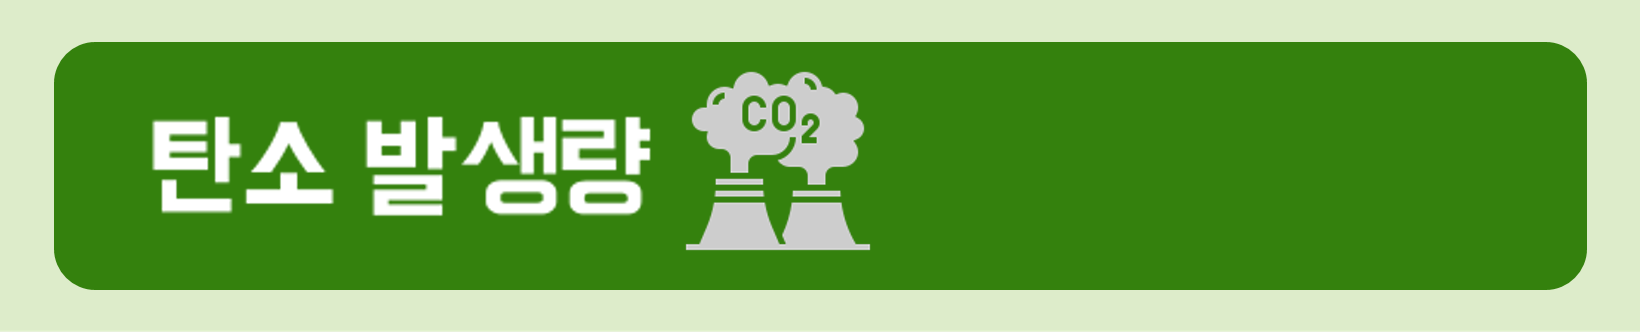
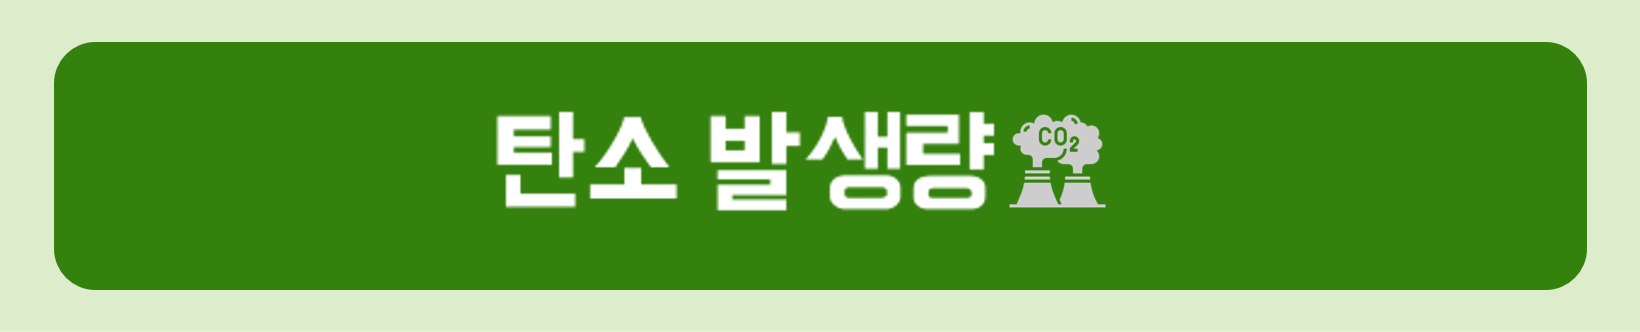
change table image

Changed region(s): [[0.0933, 0.2108, 0.6841, 0.753]]

diff --git a/project/templates/elements.html b/project/templates/elements.html
@@ -115,17 +115,17 @@
                             <table>
                                 <thead>
                                 <tr>
-                                    <th bgcolor="#6fd66c">머신러닝 분석</th>
-                                    <th bgcolor="#6fd66c">옵션</th>
-                                    <th bgcolor="#6fd66c">간단한 설명</th>
+                                    <th width="27%" style="background-image:url(./static/assets/img/elements/메뉴_머신러닝.png); background-size:100%; background-repeat:no-repeat; background-position:bottom center; border:hidden;">&emsp;</th>
+                                    <th width="42%" style="background-image:url(./static/assets/img/elements/메뉴_옵션.png); background-size:100%; background-repeat:no-repeat; background-position:bottom center; border:hidden;">&emsp;</th>
+                                    <th width="31%" style="background-image:url(./static/assets/img/elements/메뉴_설명.png); background-size:100%; background-repeat:no-repeat; background-position:bottom center; border:hidden;">&emsp;</th>
                                 </tr>
                                 </thead>
                                 <tbody>
                                 <tr>
-                                    <td bgcolor="#e9e9e9">지역</td>
+                                    <td height="55px"  bgcolor="#DDECCA" style="border:hidden; background-image:url(./static/assets/img/elements/index_loc.png); background-size:100%; background-repeat:no-repeat; background-position:center;"></td>
                                     <td>
-                                        <select type="text" class="form-control-sm" name="sido" id="sido">
-                                        <option value='' selected>&emsp;&emsp;&emsp;&emsp;-- 선택 --&emsp;&emsp;&emsp;&emsp;</option>
+                                        <select type="text" class="form-control-sm" name="sido" id="sido" style="width:150px;">
+                                        <option value='' selected>&emsp;-- 선택 --&emsp;</option>
                                         <option value='강원도'>강원도&emsp;&emsp;&emsp;</option>
                                         <option value='경기도'>경기도&emsp;&emsp;&emsp;</option>
                                         <option value='경상남도'>경상남도&emsp;&emsp;</option>
@@ -147,14 +147,14 @@
                                     <td>17개 시/도 중 선택</td>
                                 </tr>
                                 <tr>
-                                    <td bgcolor="#e9e9e9">업종</td>
+                                    <td height="55px" bgcolor="#DDECCA" style="border:hidden; background-image:url(./static/assets/img/elements/index_business.png); background-size:100%; background-repeat:no-repeat; background-position:center;">&emsp;</td>
                                     <td>
                                         <select type="text" class="form-control-sm" name="ind" id="ind">
                                         <option value='' selected>&emsp;&emsp;&emsp;&emsp;-- 선택 --&emsp;&emsp;&emsp;&emsp;</option>
-                                        <option value='primary'>농림어업&emsp;&emsp;&emsp;&emsp;&emsp;</option>
+                                        <option value='primary'>농업,임업 및 어업&emsp;&emsp;&emsp;&emsp;&emsp;</option>
                                         <option value='mining'>광업 &emsp;&emsp;&emsp;&emsp;&emsp;&emsp;&emsp;&emsp;&emsp;&emsp;</option>
                                         <option value='manufacture'>제조업&emsp;&emsp;&emsp;&emsp;&emsp;&emsp;&emsp;&emsp;&emsp;</option>
-                                        <option value='energy'>발전에너지, 수도사업</option>
+                                        <option value='energy'>전기,가스,증기 및 수도사업</option>
                                         <option value='recycle'>폐기물 및 재생사업&emsp;&emsp;&emsp;&emsp;</option>
                                         <option value='building'>건설업&emsp;&emsp;&emsp;&emsp;&emsp;&emsp;&emsp;&emsp;&emsp;</option>
                                         <option value='retail'>도매및 소매업&emsp;&emsp;&emsp;&emsp;&emsp;&emsp;</option>
@@ -164,45 +164,25 @@
                                     <td>8개 업종 중 선택</td>
                                 </tr>
                                 <tr>
-                                    <td bgcolor="#e9e9e9">주력 에너지원</td>
-                                    <td>
-                                        <select type="text" class="form-control-sm" name="user_select_energy" id="user_select_energy">
-                                        <option value='' selected>&emsp;&emsp;&emsp;&emsp;-- 선택 --&emsp;&emsp;&emsp;&emsp;</option>
-                                        <option value='전기'>전기&emsp;&emsp;&emsp;&emsp;&emsp;</option>
-                                        <option value='전력'>전력&emsp;&emsp;&emsp;&emsp;</option>
-                                        <option value='도시가스(LNG)'>도시가스(LNG)&emsp;&emsp;&emsp;&emsp;&emsp;&emsp;</option>
-                                        <option value='증기'>증기&emsp;&emsp;&emsp;&emsp;&emsp;&emsp;&emsp;&emsp;&emsp;&emsp;</option>
-                                        <option value='벙커 A,B,C유'>벙커 A,B,C유&emsp;&emsp;&emsp;&emsp;&emsp;&emsp;&emsp;&emsp;&emsp;</option>
-                                        <option value='천연가스(LNG)'>천연가스(LNG)</option>
-                                        <option value='부생연료유1,2호'>부생연료유1,2호&emsp;&emsp;&emsp;&emsp;&emsp;</option>
-                                        <option value='프로판'>프로판&emsp;&emsp;&emsp;&emsp;&emsp;&emsp;&emsp;&emsp;&emsp;</option>
-                                        <option value='도시가스(LPG)'>도시가스(LPG)&emsp;&emsp;&emsp;&emsp;&emsp;&emsp;&emsp;&emsp;&emsp;</option>
-                                        <option value='B-A,B,C유'>B-A,B,C유 &emsp;&emsp;&emsp;&emsp;&emsp;&emsp;&emsp;&emsp;&emsp;&emsp;</option>
-                                        <option value='유연탄'>유연탄&emsp;&emsp;&emsp;&emsp;&emsp;&emsp;&emsp;&emsp;&emsp;</option>
-                                        <option value='등유'>등유&emsp;&emsp;&emsp;&emsp;&emsp;&emsp;</option>
-                                        <option value='무연탄'>무연탄&emsp;&emsp;&emsp;&emsp;</option>
-                                        <option value='경유'>경유&emsp;&emsp;&emsp;&emsp;&emsp;&emsp;&emsp;&emsp;&emsp;</option>
-                                        <option value='석유코크스'>석유코크스&emsp;&emsp;&emsp;&emsp;&emsp;&emsp;&emsp;&emsp;&emsp;</option>
-                                        <option value='온수'>온수</option>
-                                        </select>
-                                    </td>
-                                    <td>16개 세부에너지 선택</td>
+                                    <td height="55px" bgcolor="#DDECCA" style="border:hidden; background-image:url(./static/assets/img/elements/index_energysource.png); background-size:100%; background-repeat:no-repeat; background-position:center;">&emsp;</td>
+                                    <td></td>
+                                    <td>18개 세부에너지 선택</td>
                                 </tr>
                                 <tr>
-                                    <td bgcolor="#e9e9e9">절감기술 우선순위</td>
+                                    <td height="55px" bgcolor="#DDECCA" style="border:hidden; background-image:url(./static/assets/img/elements/index_reduce.png); background-size:100%; background-repeat:no-repeat; background-position:center;">&emsp;</td>
                                     <td></td>
                                     <td>이미지</td>
                                 </tr>
                                 <tr>
-                                    <td bgcolor="#e9e9e9">전력사용량</td>
+                                    <td height="55px" bgcolor="#DDECCA" style="border:hidden; background-image:url(./static/assets/img/elements/index_electric.png); background-size:100%; background-repeat:no-repeat; background-position:center;">&emsp;</td>
                                     <td colspan="2"><input type='number' name='elec' id='elec' onkeyup='call2()'> kWh/년</td>
                                 </tr>
                                 <tr>
-                                    <td bgcolor="#e9e9e9">탄소발생량</td>
+                                    <td height="55px" bgcolor="#DDECCA" style="border:hidden; background-image:url(./static/assets/img/elements/index_co2.png); background-size:100%; background-repeat:no-repeat; background-position:center;">&emsp;</td>
                                     <td colspan="2"><input type='number' name='co2' id='co2' readonly > Kg</td>
                                 </tr>
                                 <tr>
-                                    <td bgcolor="#e9e9e9">전력사용량</td>
+                                    <td height="55px" bgcolor="#DDECCA" style="border:hidden; background-image:url(./static/assets/img/elements/index_tree.png); background-size:100%; background-repeat:no-repeat; background-position:center;">&emsp;</td>
                                     <td colspan="2"><input type='number' name='tree' id='tree' readonly > 그루</td>
                                 </tr>
                                 </tbody>

diff --git a/project/templates/blog_details.html b/project/templates/blog_details.html
@@ -15,7 +15,6 @@
 <!--    <script charset="utf-8" src="https://api.esgincident.com/js/wg-third-party-climatechange-1.0-chunk-2cba99f5.js"></script>-->
     <link rel="stylesheet" type="text/css" href="https://api.esgincident.com/css/wg-third-party-climatechange-1.0-chunk-1c446daf.css">
 <!--    <script charset="utf-8" src="https://api.esgincident.com/js/wg-third-party-climatechange-1.0-chunk-1c446daf.js"></script>-->
-    <script src="http://code.jquery.com/jquery-1.8.3.min.js"></script>
     <!-- CSS here -->
     <link rel="stylesheet" href="{% static 'assets/css/bootstrap.min.css' %}">
     <link rel="stylesheet" href="{% static 'assets/css/owl.carousel.min.css' %}">
